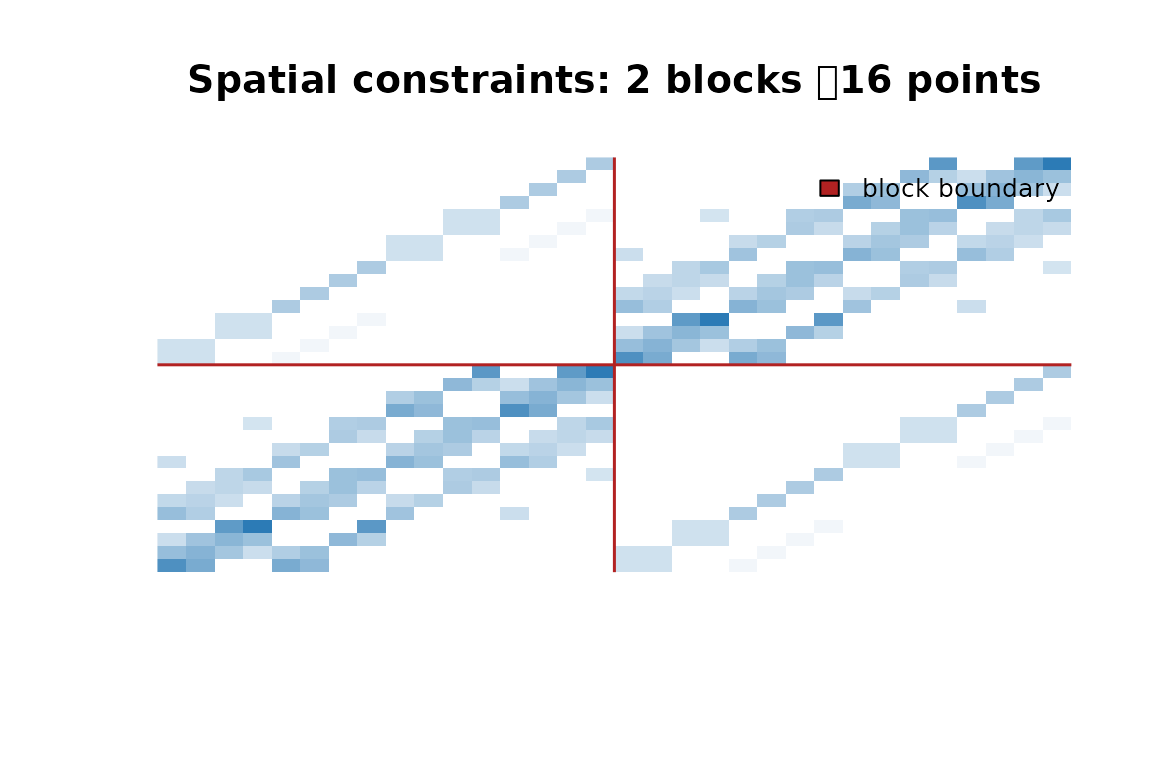
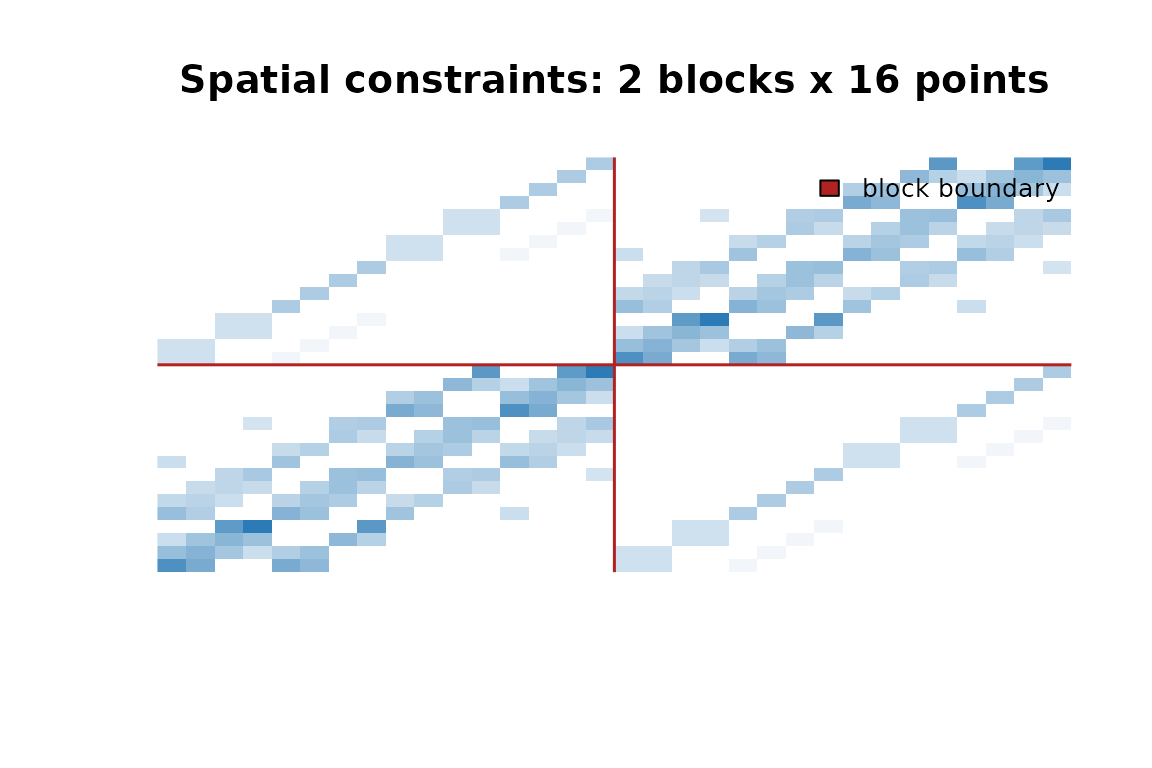
Deploying to gh-pages from @ bbuchsbaum/adjoin@c0dee06291447d1615b8fc8fbd7f0b56c5cf58ad 🚀

Changed region(s): [[0.1562, 0.0625, 0.9062, 0.125]]

diff --git a/reference/repulsion_graph.html b/reference/repulsion_graph.html
@@ -127,9 +127,9 @@ classes within a larger network or dataset.</p>
 <span class="r-out co"><span class="r-pr">#&gt;</span> <span style="color: #BB00BB; font-weight: bold;">Repulsion Graph Object</span></span>
 <span class="r-out co"><span class="r-pr">#&gt;</span> ----------------------</span>
 <span class="r-out co"><span class="r-pr">#&gt;</span> $G</span>
-<span class="r-out co"><span class="r-pr">#&gt;</span> IGRAPH be8e162 U-W- 50 83 -- </span>
+<span class="r-out co"><span class="r-pr">#&gt;</span> IGRAPH 49bb281 U-W- 50 83 -- </span>
 <span class="r-out co"><span class="r-pr">#&gt;</span> + attr: weight (e/n)</span>
-<span class="r-out co"><span class="r-pr">#&gt;</span> + edges from be8e162:</span>
+<span class="r-out co"><span class="r-pr">#&gt;</span> + edges from 49bb281:</span>
 <span class="r-out co"><span class="r-pr">#&gt;</span>  [1]  1--20  1--26  1--28  1--37  1--48  2-- 4  2-- 9  2--24  2--47  3--10</span>
 <span class="r-out co"><span class="r-pr">#&gt;</span> [11]  3--13  3--20  3--45  4-- 6  4--14  4--35  4--37  4--44  4--48  4--50</span>
 <span class="r-out co"><span class="r-pr">#&gt;</span> [21]  5--34  5--45  6--12  6--23  6--24  6--28  6--30  6--38  8--23  8--40</span>
@@ -174,9 +174,9 @@ classes within a larger network or dataset.</p>
 <span class="r-out co"><span class="r-pr">#&gt;</span> <span style="color: #BB00BB; font-weight: bold;">Repulsion Graph Object</span></span>
 <span class="r-out co"><span class="r-pr">#&gt;</span> ----------------------</span>
 <span class="r-out co"><span class="r-pr">#&gt;</span> $G</span>
-<span class="r-out co"><span class="r-pr">#&gt;</span> IGRAPH b951479 U-W- 50 83 -- </span>
+<span class="r-out co"><span class="r-pr">#&gt;</span> IGRAPH 7352495 U-W- 50 83 -- </span>
 <span class="r-out co"><span class="r-pr">#&gt;</span> + attr: weight (e/n)</span>
-<span class="r-out co"><span class="r-pr">#&gt;</span> + edges from b951479:</span>
+<span class="r-out co"><span class="r-pr">#&gt;</span> + edges from 7352495:</span>
 <span class="r-out co"><span class="r-pr">#&gt;</span>  [1]  1--20  1--26  1--28  1--37  1--48  2-- 4  2-- 9  2--24  2--47  3--10</span>
 <span class="r-out co"><span class="r-pr">#&gt;</span> [11]  3--13  3--20  3--45  4-- 6  4--14  4--35  4--37  4--44  4--48  4--50</span>
 <span class="r-out co"><span class="r-pr">#&gt;</span> [21]  5--34  5--45  6--12  6--23  6--24  6--28  6--30  6--38  8--23  8--40</span>
@@ -223,9 +223,9 @@ classes within a larger network or dataset.</p>
 <span class="r-out co"><span class="r-pr">#&gt;</span> <span style="color: #BB00BB; font-weight: bold;">Repulsion Graph Object</span></span>
 <span class="r-out co"><span class="r-pr">#&gt;</span> ----------------------</span>
 <span class="r-out co"><span class="r-pr">#&gt;</span> $G</span>
-<span class="r-out co"><span class="r-pr">#&gt;</span> IGRAPH 3a277f9 U-W- 150 27 -- </span>
+<span class="r-out co"><span class="r-pr">#&gt;</span> IGRAPH 22519ce U-W- 150 27 -- </span>
 <span class="r-out co"><span class="r-pr">#&gt;</span> + attr: weight (e/n)</span>
-<span class="r-out co"><span class="r-pr">#&gt;</span> + edges from 3a277f9:</span>
+<span class="r-out co"><span class="r-pr">#&gt;</span> + edges from 22519ce:</span>
 <span class="r-out co"><span class="r-pr">#&gt;</span>  [1] 57--128 60--107 64--139 67--107 69--120 71--128 71--139 71--150 73--120</span>
 <span class="r-out co"><span class="r-pr">#&gt;</span> [10] 73--124 73--134 73--147 78--111 78--148 84--102 84--114 84--120 84--124</span>
 <span class="r-out co"><span class="r-pr">#&gt;</span> [19] 84--127 84--134 84--135 84--143 84--147 84--150 85--107 90--107 91--107</span>

diff --git a/reference/between_class_neighbors.class_graph.html b/reference/between_class_neighbors.class_graph.html
@@ -76,9 +76,9 @@
 <span class="r-in"><span><span class="va">ng</span> <span class="op">&lt;-</span> <span class="fu"><a href="neighbor_graph.html">neighbor_graph</a></span><span class="op">(</span><span class="fu"><a href="https://rdrr.io/r/base/matrix.html" class="external-link">matrix</a></span><span class="op">(</span><span class="fu"><a href="https://rdrr.io/r/base/c.html" class="external-link">c</a></span><span class="op">(</span><span class="fl">0</span>,<span class="fl">1</span>,<span class="fl">1</span>,<span class="fl">1</span>,<span class="fl">0</span>,<span class="fl">1</span>,<span class="fl">1</span>,<span class="fl">1</span>,<span class="fl">0</span><span class="op">)</span>,<span class="fl">3</span><span class="op">)</span><span class="op">)</span></span></span>
 <span class="r-in"><span><span class="fu"><a href="between_class_neighbors.html">between_class_neighbors</a></span><span class="op">(</span><span class="va">cg</span>, <span class="va">ng</span><span class="op">)</span></span></span>
 <span class="r-out co"><span class="r-pr">#&gt;</span> $G</span>
-<span class="r-out co"><span class="r-pr">#&gt;</span> IGRAPH f91f644 U-W- 3 3 -- </span>
+<span class="r-out co"><span class="r-pr">#&gt;</span> IGRAPH 9fb1ab7 U-W- 3 3 -- </span>
 <span class="r-out co"><span class="r-pr">#&gt;</span> + attr: weight (e/n)</span>
-<span class="r-out co"><span class="r-pr">#&gt;</span> + edges from f91f644:</span>
+<span class="r-out co"><span class="r-pr">#&gt;</span> + edges from 9fb1ab7:</span>
 <span class="r-out co"><span class="r-pr">#&gt;</span> [1] 1--2 1--3 2--3</span>
 <span class="r-out co"><span class="r-pr">#&gt;</span> </span>
 <span class="r-out co"><span class="r-pr">#&gt;</span> $params</span>

diff --git a/reference/between_class_neighbors.html b/reference/between_class_neighbors.html
@@ -75,9 +75,9 @@
 <span class="r-in"><span><span class="va">ng</span> <span class="op">&lt;-</span> <span class="fu"><a href="neighbor_graph.html">neighbor_graph</a></span><span class="op">(</span><span class="fu"><a href="https://rdrr.io/r/base/matrix.html" class="external-link">matrix</a></span><span class="op">(</span><span class="fu"><a href="https://rdrr.io/r/base/c.html" class="external-link">c</a></span><span class="op">(</span><span class="fl">0</span>,<span class="fl">1</span>,<span class="fl">1</span>,<span class="fl">1</span>,<span class="fl">0</span>,<span class="fl">1</span>,<span class="fl">1</span>,<span class="fl">1</span>,<span class="fl">0</span><span class="op">)</span>,<span class="fl">3</span><span class="op">)</span><span class="op">)</span></span></span>
 <span class="r-in"><span><span class="fu">between_class_neighbors</span><span class="op">(</span><span class="va">cg</span>, <span class="va">ng</span><span class="op">)</span></span></span>
 <span class="r-out co"><span class="r-pr">#&gt;</span> $G</span>
-<span class="r-out co"><span class="r-pr">#&gt;</span> IGRAPH 1aae20d U-W- 3 3 -- </span>
+<span class="r-out co"><span class="r-pr">#&gt;</span> IGRAPH 53abf92 U-W- 3 3 -- </span>
 <span class="r-out co"><span class="r-pr">#&gt;</span> + attr: weight (e/n)</span>
-<span class="r-out co"><span class="r-pr">#&gt;</span> + edges from 1aae20d:</span>
+<span class="r-out co"><span class="r-pr">#&gt;</span> + edges from 53abf92:</span>
 <span class="r-out co"><span class="r-pr">#&gt;</span> [1] 1--2 1--3 2--3</span>
 <span class="r-out co"><span class="r-pr">#&gt;</span> </span>
 <span class="r-out co"><span class="r-pr">#&gt;</span> $params</span>

diff --git a/reference/heterogeneous_neighbors.html b/reference/heterogeneous_neighbors.html
@@ -87,9 +87,9 @@
 <span class="r-in"><span><span class="va">X</span> <span class="op">&lt;-</span> <span class="fu"><a href="https://rdrr.io/r/base/matrix.html" class="external-link">matrix</a></span><span class="op">(</span><span class="fu"><a href="https://rdrr.io/r/stats/Normal.html" class="external-link">rnorm</a></span><span class="op">(</span><span class="fl">8</span><span class="op">)</span>, ncol<span class="op">=</span><span class="fl">2</span><span class="op">)</span></span></span>
 <span class="r-in"><span><span class="fu">heterogeneous_neighbors</span><span class="op">(</span><span class="va">cg</span>, <span class="va">X</span>, k<span class="op">=</span><span class="fl">1</span><span class="op">)</span></span></span>
 <span class="r-out co"><span class="r-pr">#&gt;</span> $G</span>
-<span class="r-out co"><span class="r-pr">#&gt;</span> IGRAPH 453eb44 U-W- 4 3 -- </span>
+<span class="r-out co"><span class="r-pr">#&gt;</span> IGRAPH cbb98a5 U-W- 4 3 -- </span>
 <span class="r-out co"><span class="r-pr">#&gt;</span> + attr: weight (e/n)</span>
-<span class="r-out co"><span class="r-pr">#&gt;</span> + edges from 453eb44:</span>
+<span class="r-out co"><span class="r-pr">#&gt;</span> + edges from cbb98a5:</span>
 <span class="r-out co"><span class="r-pr">#&gt;</span> [1] 1--4 2--3 2--4</span>
 <span class="r-out co"><span class="r-pr">#&gt;</span> </span>
 <span class="r-out co"><span class="r-pr">#&gt;</span> $params</span>

diff --git a/reference/homogeneous_neighbors.html b/reference/homogeneous_neighbors.html
@@ -87,9 +87,9 @@
 <span class="r-in"><span><span class="va">X</span> <span class="op">&lt;-</span> <span class="fu"><a href="https://rdrr.io/r/base/matrix.html" class="external-link">matrix</a></span><span class="op">(</span><span class="fu"><a href="https://rdrr.io/r/stats/Normal.html" class="external-link">rnorm</a></span><span class="op">(</span><span class="fl">8</span><span class="op">)</span>, ncol<span class="op">=</span><span class="fl">2</span><span class="op">)</span></span></span>
 <span class="r-in"><span><span class="fu">homogeneous_neighbors</span><span class="op">(</span><span class="va">cg</span>, <span class="va">X</span>, k<span class="op">=</span><span class="fl">1</span><span class="op">)</span></span></span>
 <span class="r-out co"><span class="r-pr">#&gt;</span> $G</span>
-<span class="r-out co"><span class="r-pr">#&gt;</span> IGRAPH 294e0a9 U-W- 4 2 -- </span>
+<span class="r-out co"><span class="r-pr">#&gt;</span> IGRAPH f1e3d7e U-W- 4 2 -- </span>
 <span class="r-out co"><span class="r-pr">#&gt;</span> + attr: weight (e/n)</span>
-<span class="r-out co"><span class="r-pr">#&gt;</span> + edges from 294e0a9:</span>
+<span class="r-out co"><span class="r-pr">#&gt;</span> + edges from f1e3d7e:</span>
 <span class="r-out co"><span class="r-pr">#&gt;</span> [1] 1--2 3--4</span>
 <span class="r-out co"><span class="r-pr">#&gt;</span> </span>
 <span class="r-out co"><span class="r-pr">#&gt;</span> $params</span>

diff --git a/reference/neighbor_graph.nnsearcher.html b/reference/neighbor_graph.nnsearcher.html
@@ -100,9 +100,9 @@
 <span class="r-in"><span><span class="va">searcher</span> <span class="op">&lt;-</span> <span class="fu"><a href="nnsearcher.html">nnsearcher</a></span><span class="op">(</span><span class="va">X</span><span class="op">)</span></span></span>
 <span class="r-in"><span><span class="fu"><a href="neighbor_graph.html">neighbor_graph</a></span><span class="op">(</span><span class="va">searcher</span>, k<span class="op">=</span><span class="fl">2</span>, type<span class="op">=</span><span class="st">"normal"</span>, transform<span class="op">=</span><span class="st">"heat"</span>, sigma<span class="op">=</span><span class="fl">1</span><span class="op">)</span></span></span>
 <span class="r-out co"><span class="r-pr">#&gt;</span> $G</span>
-<span class="r-out co"><span class="r-pr">#&gt;</span> IGRAPH 5ae6c7b U-W- 5 7 -- </span>
+<span class="r-out co"><span class="r-pr">#&gt;</span> IGRAPH e529095 U-W- 5 7 -- </span>
 <span class="r-out co"><span class="r-pr">#&gt;</span> + attr: weight (e/n)</span>
-<span class="r-out co"><span class="r-pr">#&gt;</span> + edges from 5ae6c7b:</span>
+<span class="r-out co"><span class="r-pr">#&gt;</span> + edges from e529095:</span>
 <span class="r-out co"><span class="r-pr">#&gt;</span> [1] 1--2 1--5 2--3 2--4 2--5 3--5 4--5</span>
 <span class="r-out co"><span class="r-pr">#&gt;</span> </span>
 <span class="r-out co"><span class="r-pr">#&gt;</span> $params</span>

diff --git a/reference/print.repulsion_graph.html b/reference/print.repulsion_graph.html
@@ -75,9 +75,9 @@
 <span class="r-out co"><span class="r-pr">#&gt;</span> <span style="color: #BB00BB; font-weight: bold;">Repulsion Graph Object</span></span>
 <span class="r-out co"><span class="r-pr">#&gt;</span> ----------------------</span>
 <span class="r-out co"><span class="r-pr">#&gt;</span> $G</span>
-<span class="r-out co"><span class="r-pr">#&gt;</span> IGRAPH 64d75b2 U-W- 2 1 -- </span>
+<span class="r-out co"><span class="r-pr">#&gt;</span> IGRAPH b321b38 U-W- 2 1 -- </span>
 <span class="r-out co"><span class="r-pr">#&gt;</span> + attr: weight (e/n)</span>
-<span class="r-out co"><span class="r-pr">#&gt;</span> + edge from 64d75b2:</span>
+<span class="r-out co"><span class="r-pr">#&gt;</span> + edge from b321b38:</span>
 <span class="r-out co"><span class="r-pr">#&gt;</span> [1] 1--2</span>
 <span class="r-out co"><span class="r-pr">#&gt;</span> </span>
 <span class="r-out co"><span class="r-pr">#&gt;</span> $params</span>

diff --git a/reference/within_class_neighbors.class_graph.html b/reference/within_class_neighbors.class_graph.html
@@ -76,9 +76,9 @@
 <span class="r-in"><span><span class="va">ng</span> <span class="op">&lt;-</span> <span class="fu"><a href="neighbor_graph.html">neighbor_graph</a></span><span class="op">(</span><span class="fu"><a href="https://rdrr.io/r/base/matrix.html" class="external-link">matrix</a></span><span class="op">(</span><span class="fu"><a href="https://rdrr.io/r/base/c.html" class="external-link">c</a></span><span class="op">(</span><span class="fl">0</span>,<span class="fl">1</span>,<span class="fl">0</span>,<span class="fl">1</span>,<span class="fl">0</span>,<span class="fl">0</span>,<span class="fl">0</span>,<span class="fl">0</span>,<span class="fl">0</span><span class="op">)</span>,<span class="fl">3</span><span class="op">)</span><span class="op">)</span></span></span>
 <span class="r-in"><span><span class="fu"><a href="within_class_neighbors.html">within_class_neighbors</a></span><span class="op">(</span><span class="va">cg</span>, <span class="va">ng</span><span class="op">)</span></span></span>
 <span class="r-out co"><span class="r-pr">#&gt;</span> $G</span>
-<span class="r-out co"><span class="r-pr">#&gt;</span> IGRAPH e68ff8e U-W- 3 1 -- </span>
+<span class="r-out co"><span class="r-pr">#&gt;</span> IGRAPH 5f87f12 U-W- 3 1 -- </span>
 <span class="r-out co"><span class="r-pr">#&gt;</span> + attr: weight (e/n)</span>
-<span class="r-out co"><span class="r-pr">#&gt;</span> + edge from e68ff8e:</span>
+<span class="r-out co"><span class="r-pr">#&gt;</span> + edge from 5f87f12:</span>
 <span class="r-out co"><span class="r-pr">#&gt;</span> [1] 1--2</span>
 <span class="r-out co"><span class="r-pr">#&gt;</span> </span>
 <span class="r-out co"><span class="r-pr">#&gt;</span> $params</span>

diff --git a/reference/within_class_neighbors.html b/reference/within_class_neighbors.html
@@ -75,8 +75,8 @@
 <span class="r-in"><span><span class="va">ng</span> <span class="op">&lt;-</span> <span class="fu"><a href="neighbor_graph.html">neighbor_graph</a></span><span class="op">(</span><span class="fu"><a href="https://rdrr.io/r/base/diag.html" class="external-link">diag</a></span><span class="op">(</span><span class="fl">3</span><span class="op">)</span><span class="op">)</span></span></span>
 <span class="r-in"><span><span class="fu">within_class_neighbors</span><span class="op">(</span><span class="va">cg</span>, <span class="va">ng</span><span class="op">)</span></span></span>
 <span class="r-out co"><span class="r-pr">#&gt;</span> $G</span>
-<span class="r-out co"><span class="r-pr">#&gt;</span> IGRAPH e168a9c U--- 3 0 -- </span>
-<span class="r-out co"><span class="r-pr">#&gt;</span> + edges from e168a9c:</span>
+<span class="r-out co"><span class="r-pr">#&gt;</span> IGRAPH c6c84d6 U--- 3 0 -- </span>
+<span class="r-out co"><span class="r-pr">#&gt;</span> + edges from c6c84d6:</span>
 <span class="r-out co"><span class="r-pr">#&gt;</span> </span>
 <span class="r-out co"><span class="r-pr">#&gt;</span> $params</span>
 <span class="r-out co"><span class="r-pr">#&gt;</span> list()</span>

diff --git a/reference/repulsion_graph.md b/reference/repulsion_graph.md
@@ -93,9 +93,9 @@ print(R_weighted)
 #> Repulsion Graph Object
 #> ----------------------
 #> $G
-#> IGRAPH be8e162 U-W- 50 83 -- 
+#> IGRAPH 49bb281 U-W- 50 83 -- 
 #> + attr: weight (e/n)
-#> + edges from be8e162:
+#> + edges from 49bb281:
 #>  [1]  1--20  1--26  1--28  1--37  1--48  2-- 4  2-- 9  2--24  2--47  3--10
 #> [11]  3--13  3--20  3--45  4-- 6  4--14  4--35  4--37  4--44  4--48  4--50
 #> [21]  5--34  5--45  6--12  6--23  6--24  6--28  6--30  6--38  8--23  8--40
@@ -140,9 +140,9 @@ print(R_binary)
 #> Repulsion Graph Object
 #> ----------------------
 #> $G
-#> IGRAPH b951479 U-W- 50 83 -- 
+#> IGRAPH 7352495 U-W- 50 83 -- 
 #> + attr: weight (e/n)
-#> + edges from b951479:
+#> + edges from 7352495:
 #>  [1]  1--20  1--26  1--28  1--37  1--48  2-- 4  2-- 9  2--24  2--47  3--10
 #> [11]  3--13  3--20  3--45  4-- 6  4--14  4--35  4--37  4--44  4--48  4--50
 #> [21]  5--34  5--45  6--12  6--23  6--24  6--28  6--30  6--38  8--23  8--40
@@ -189,9 +189,9 @@ print(R_iris)
 #> Repulsion Graph Object
 #> ----------------------
 #> $G
-#> IGRAPH 3a277f9 U-W- 150 27 -- 
+#> IGRAPH 22519ce U-W- 150 27 -- 
 #> + attr: weight (e/n)
-#> + edges from 3a277f9:
+#> + edges from 22519ce:
 #>  [1] 57--128 60--107 64--139 67--107 69--120 71--128 71--139 71--150 73--120
 #> [10] 73--124 73--134 73--147 78--111 78--148 84--102 84--114 84--120 84--124
 #> [19] 84--127 84--134 84--135 84--143 84--147 84--150 85--107 90--107 91--107

diff --git a/reference/between_class_neighbors.class_graph.md b/reference/between_class_neighbors.class_graph.md
@@ -35,9 +35,9 @@ cg <- class_graph(labs)
 ng <- neighbor_graph(matrix(c(0,1,1,1,0,1,1,1,0),3))
 between_class_neighbors(cg, ng)
 #> $G
-#> IGRAPH f91f644 U-W- 3 3 -- 
+#> IGRAPH 9fb1ab7 U-W- 3 3 -- 
 #> + attr: weight (e/n)
-#> + edges from f91f644:
+#> + edges from 9fb1ab7:
 #> [1] 1--2 1--3 2--3
 #> 
 #> $params

diff --git a/reference/between_class_neighbors.md b/reference/between_class_neighbors.md
@@ -35,9 +35,9 @@ cg <- class_graph(labs)
 ng <- neighbor_graph(matrix(c(0,1,1,1,0,1,1,1,0),3))
 between_class_neighbors(cg, ng)
 #> $G
-#> IGRAPH 1aae20d U-W- 3 3 -- 
+#> IGRAPH 53abf92 U-W- 3 3 -- 
 #> + attr: weight (e/n)
-#> + edges from 1aae20d:
+#> + edges from 53abf92:
 #> [1] 1--2 1--3 2--3
 #> 
 #> $params